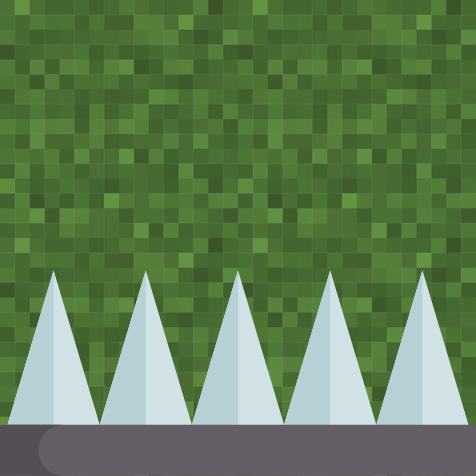
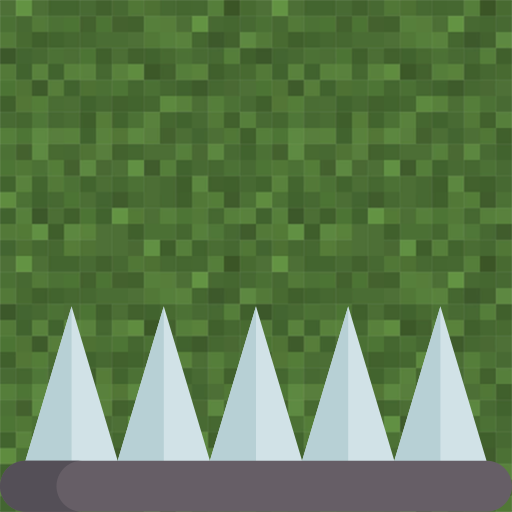
更改了洞穴和陷阱的贴图

diff --git a/src/view/CellComponent.java b/src/view/CellComponent.java
@@ -101,10 +101,10 @@ public class CellComponent extends JPanel {
             }else background = new ImageIcon("resource/CellIcons/water2.png");
         } else if (type == GridType.DENS) {
             if(x == 0){
-                background = new ImageIcon("resource/CellIcons/caveLeft.png");
-            }else background = new ImageIcon("resource/CellIcons/caveRight.png");
+                background = new ImageIcon("resource/CellIcons/leftSummer.png");
+            }else background = new ImageIcon("resource/CellIcons/rightSummer.png");
         } else if (type == GridType.TRAP) {
-            background = new ImageIcon("resource/CellIcons/grassWithTrap.png");
+            background = new ImageIcon("resource/CellIcons/trapSummer.png");
         } else {
             if((x + y) % 2 == 0){
                 background = new ImageIcon("resource/CellIcons/summer2.png");
@@ -118,10 +118,10 @@ public class CellComponent extends JPanel {
             }else background = new ImageIcon("resource/CellIcons/water2.png");
         } else if (type == GridType.DENS) {
             if(x == 0){
-                background = new ImageIcon("resource/CellIcons/caveLeft.png");
-            }else background = new ImageIcon("resource/CellIcons/caveRight.png");
+                background = new ImageIcon("resource/CellIcons/leftAutumn.png");
+            }else background = new ImageIcon("resource/CellIcons/rightAutumn.png");
         } else if (type == GridType.TRAP) {
-            background = new ImageIcon("resource/CellIcons/grassWithTrap.png");
+            background = new ImageIcon("resource/CellIcons/trapAutumn.png");
         } else {
             if((x + y) % 2 == 0){
                 background = new ImageIcon("resource/CellIcons/autumn2.png");
@@ -135,10 +135,10 @@ public class CellComponent extends JPanel {
             }else background = new ImageIcon("resource/CellIcons/water2.png");
         } else if (type == GridType.DENS) {
             if(x == 0){
-                background = new ImageIcon("resource/CellIcons/caveLeft.png");
-            }else background = new ImageIcon("resource/CellIcons/caveRight.png");
+                background = new ImageIcon("resource/CellIcons/leftWinter.png");
+            }else background = new ImageIcon("resource/CellIcons/rightWinter.png");
         } else if (type == GridType.TRAP) {
-            background = new ImageIcon("resource/CellIcons/grassWithTrap.png");
+            background = new ImageIcon("resource/CellIcons/trapWinter.png");
         } else {
             if((x + y) % 2 == 0){
                 background = new ImageIcon("resource/CellIcons/winter2.png");
